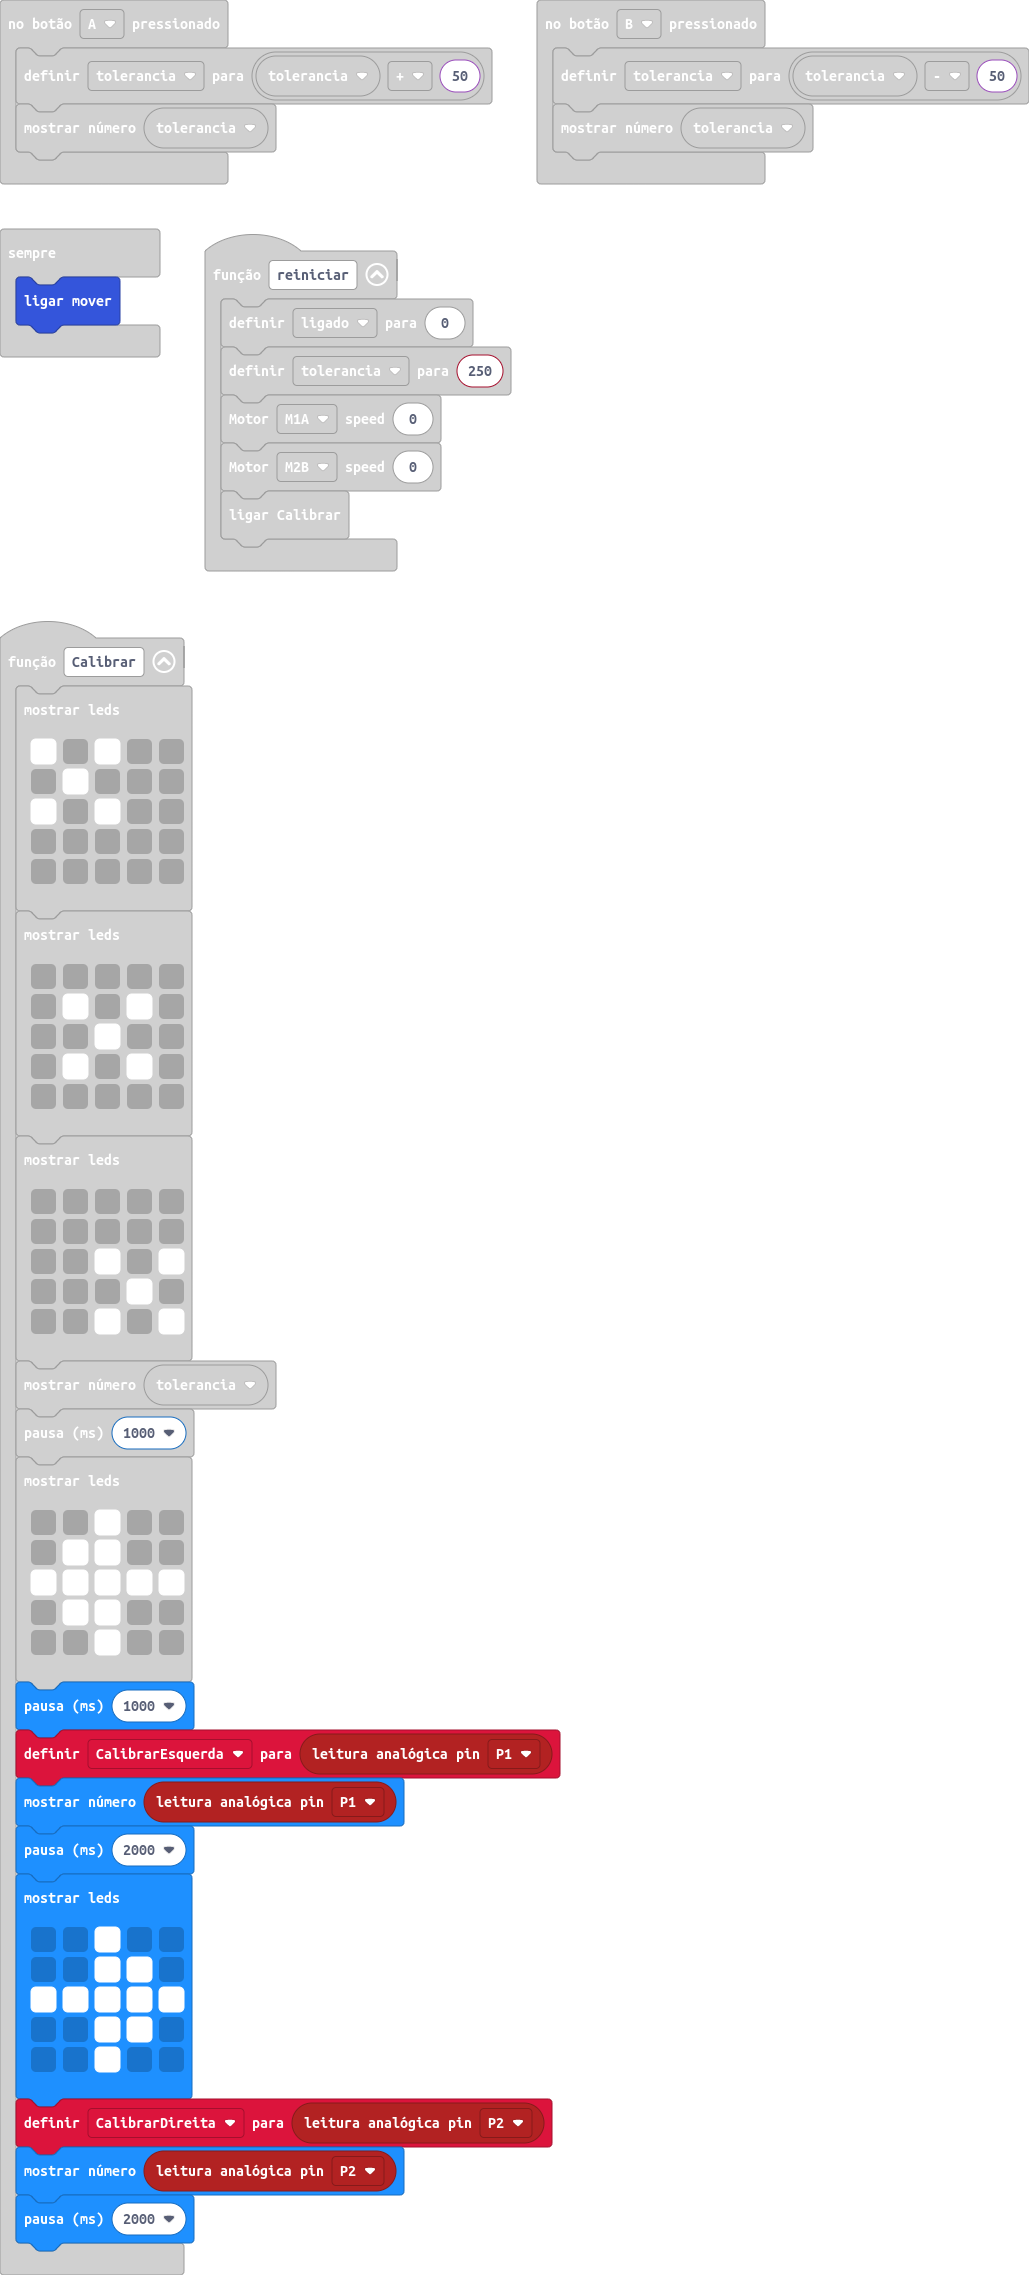
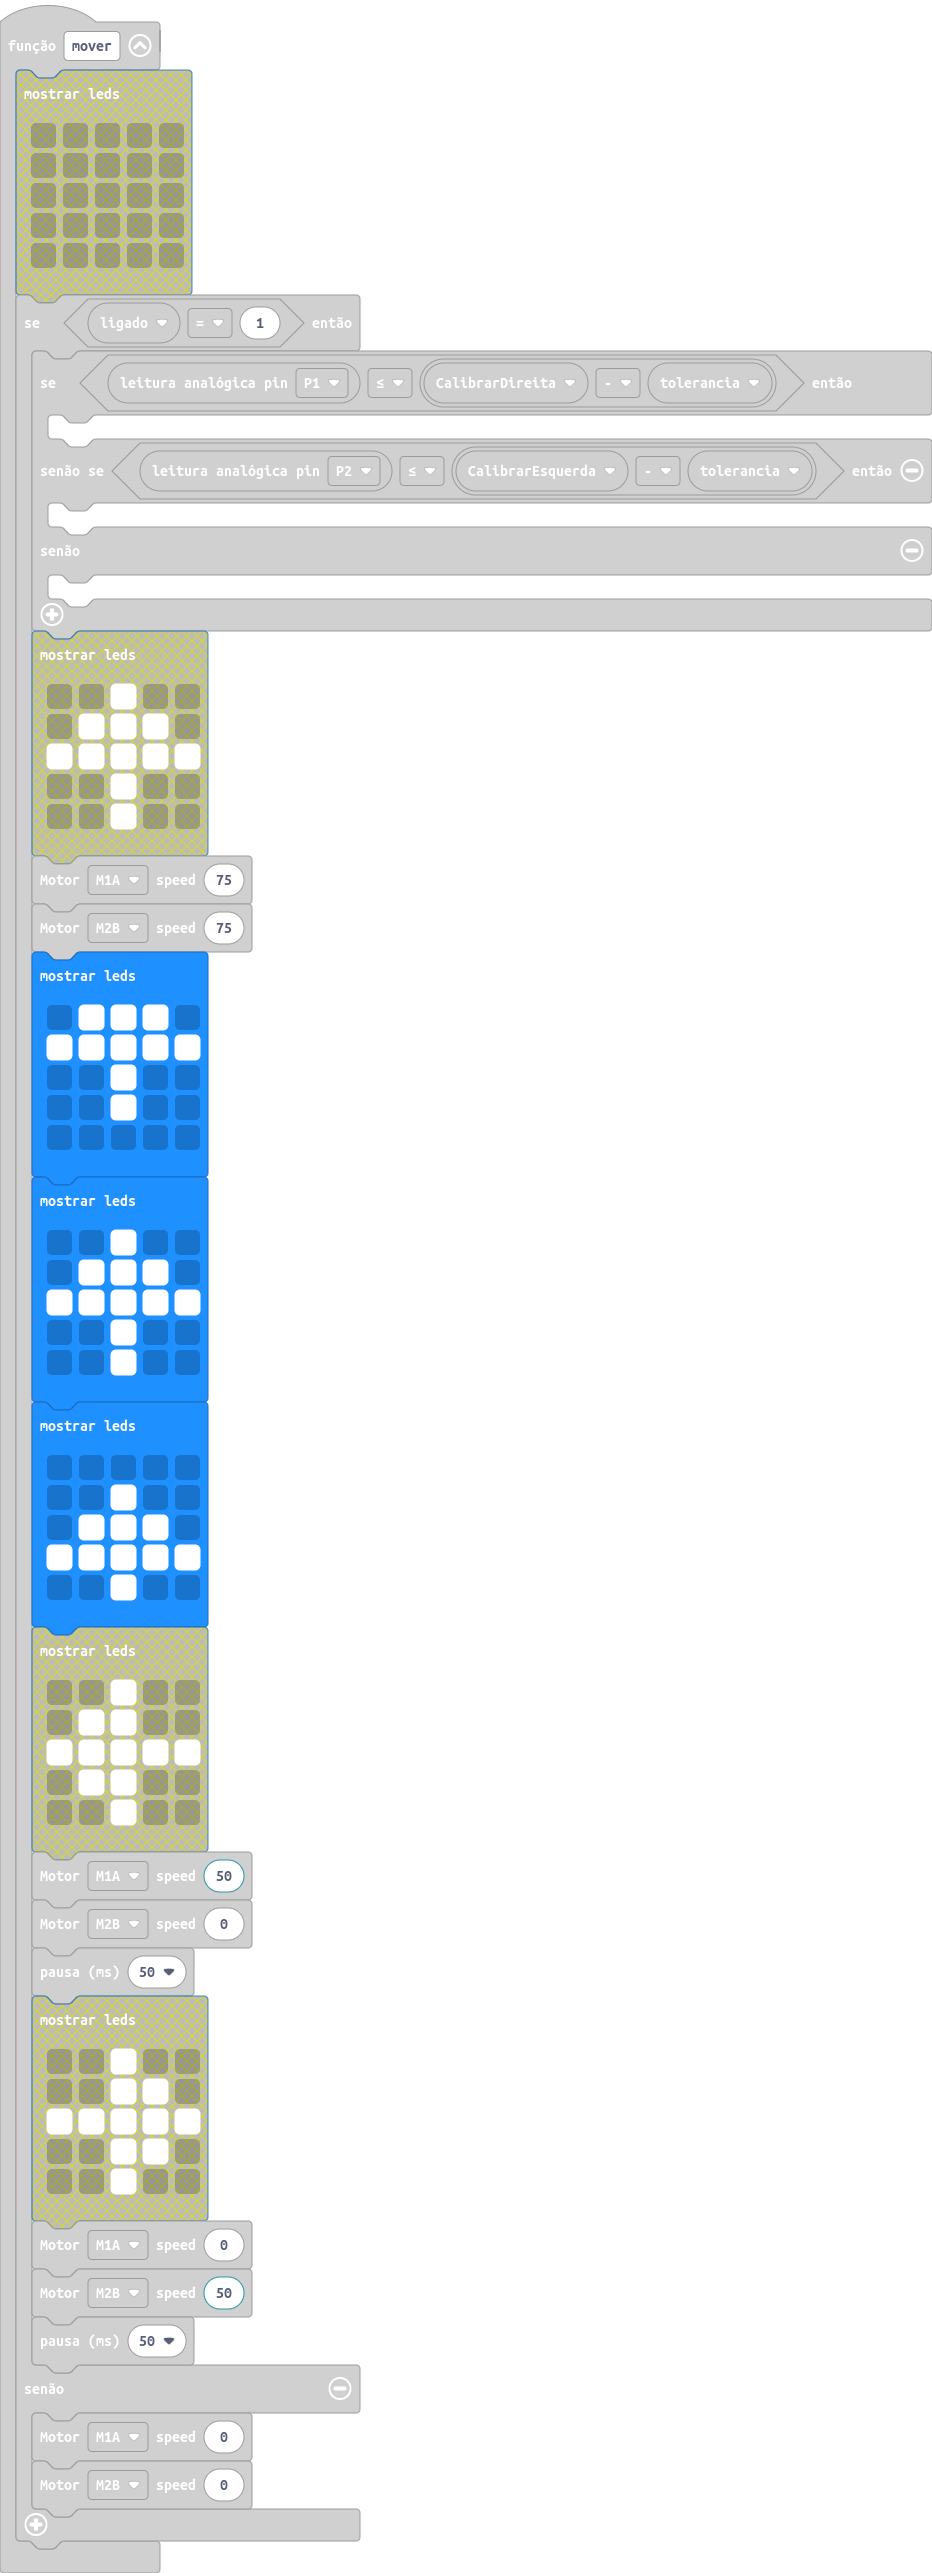
Atualizar 'main.blocks, main.ts'

Changed region(s): [[0.0, 0.0, 1.0, 1.0]]

diff --git a/main.ts b/main.ts
@@ -59,37 +59,25 @@ input.onButtonPressed(Button.B, function () {
     basic.showNumber(tolerancia)
 })
 function mover () {
-    basic.showLeds(`
-        . . . . .
-        . . . . .
-        . . . . .
-        . . . . .
-        . . . . .
-        `)
     if (ligado == 1) {
         if (pins.analogReadPin(AnalogPin.P1) <= CalibrarDireita - tolerancia) {
-            basic.showLeds(`
-                . . # . .
-                . . # # .
-                # # # # #
-                . . # # .
-                . . # . .
-                `)
             robotbit.MotorRun(robotbit.Motors.M1A, 0)
-            robotbit.MotorRun(robotbit.Motors.M2B, 75)
+            robotbit.MotorRun(robotbit.Motors.M2B, 50)
             basic.pause(50)
         } else if (pins.analogReadPin(AnalogPin.P2) <= CalibrarEsquerda - tolerancia) {
-            basic.showLeds(`
-                . . # . .
-                . # # . .
-                # # # # #
-                . # # . .
-                . . # . .
-                `)
-            robotbit.MotorRun(robotbit.Motors.M1A, 75)
+            robotbit.MotorRun(robotbit.Motors.M1A, 50)
             robotbit.MotorRun(robotbit.Motors.M2B, 0)
             basic.pause(50)
         } else {
+            robotbit.MotorRun(robotbit.Motors.M1A, 75)
+            robotbit.MotorRun(robotbit.Motors.M2B, 75)
+            basic.showLeds(`
+                . # # # .
+                # # # # #
+                . . # . .
+                . . # . .
+                . . . . .
+                `)
             basic.showLeds(`
                 . . # . .
                 . # # # .
@@ -97,8 +85,13 @@ function mover () {
                 . . # . .
                 . . # . .
                 `)
-            robotbit.MotorRun(robotbit.Motors.M1A, 75)
-            robotbit.MotorRun(robotbit.Motors.M2B, 75)
+            basic.showLeds(`
+                . . . . .
+                . . # . .
+                . # # # .
+                # # # # #
+                . . # . .
+                `)
         }
     } else {
         robotbit.MotorRun(robotbit.Motors.M1A, 0)
